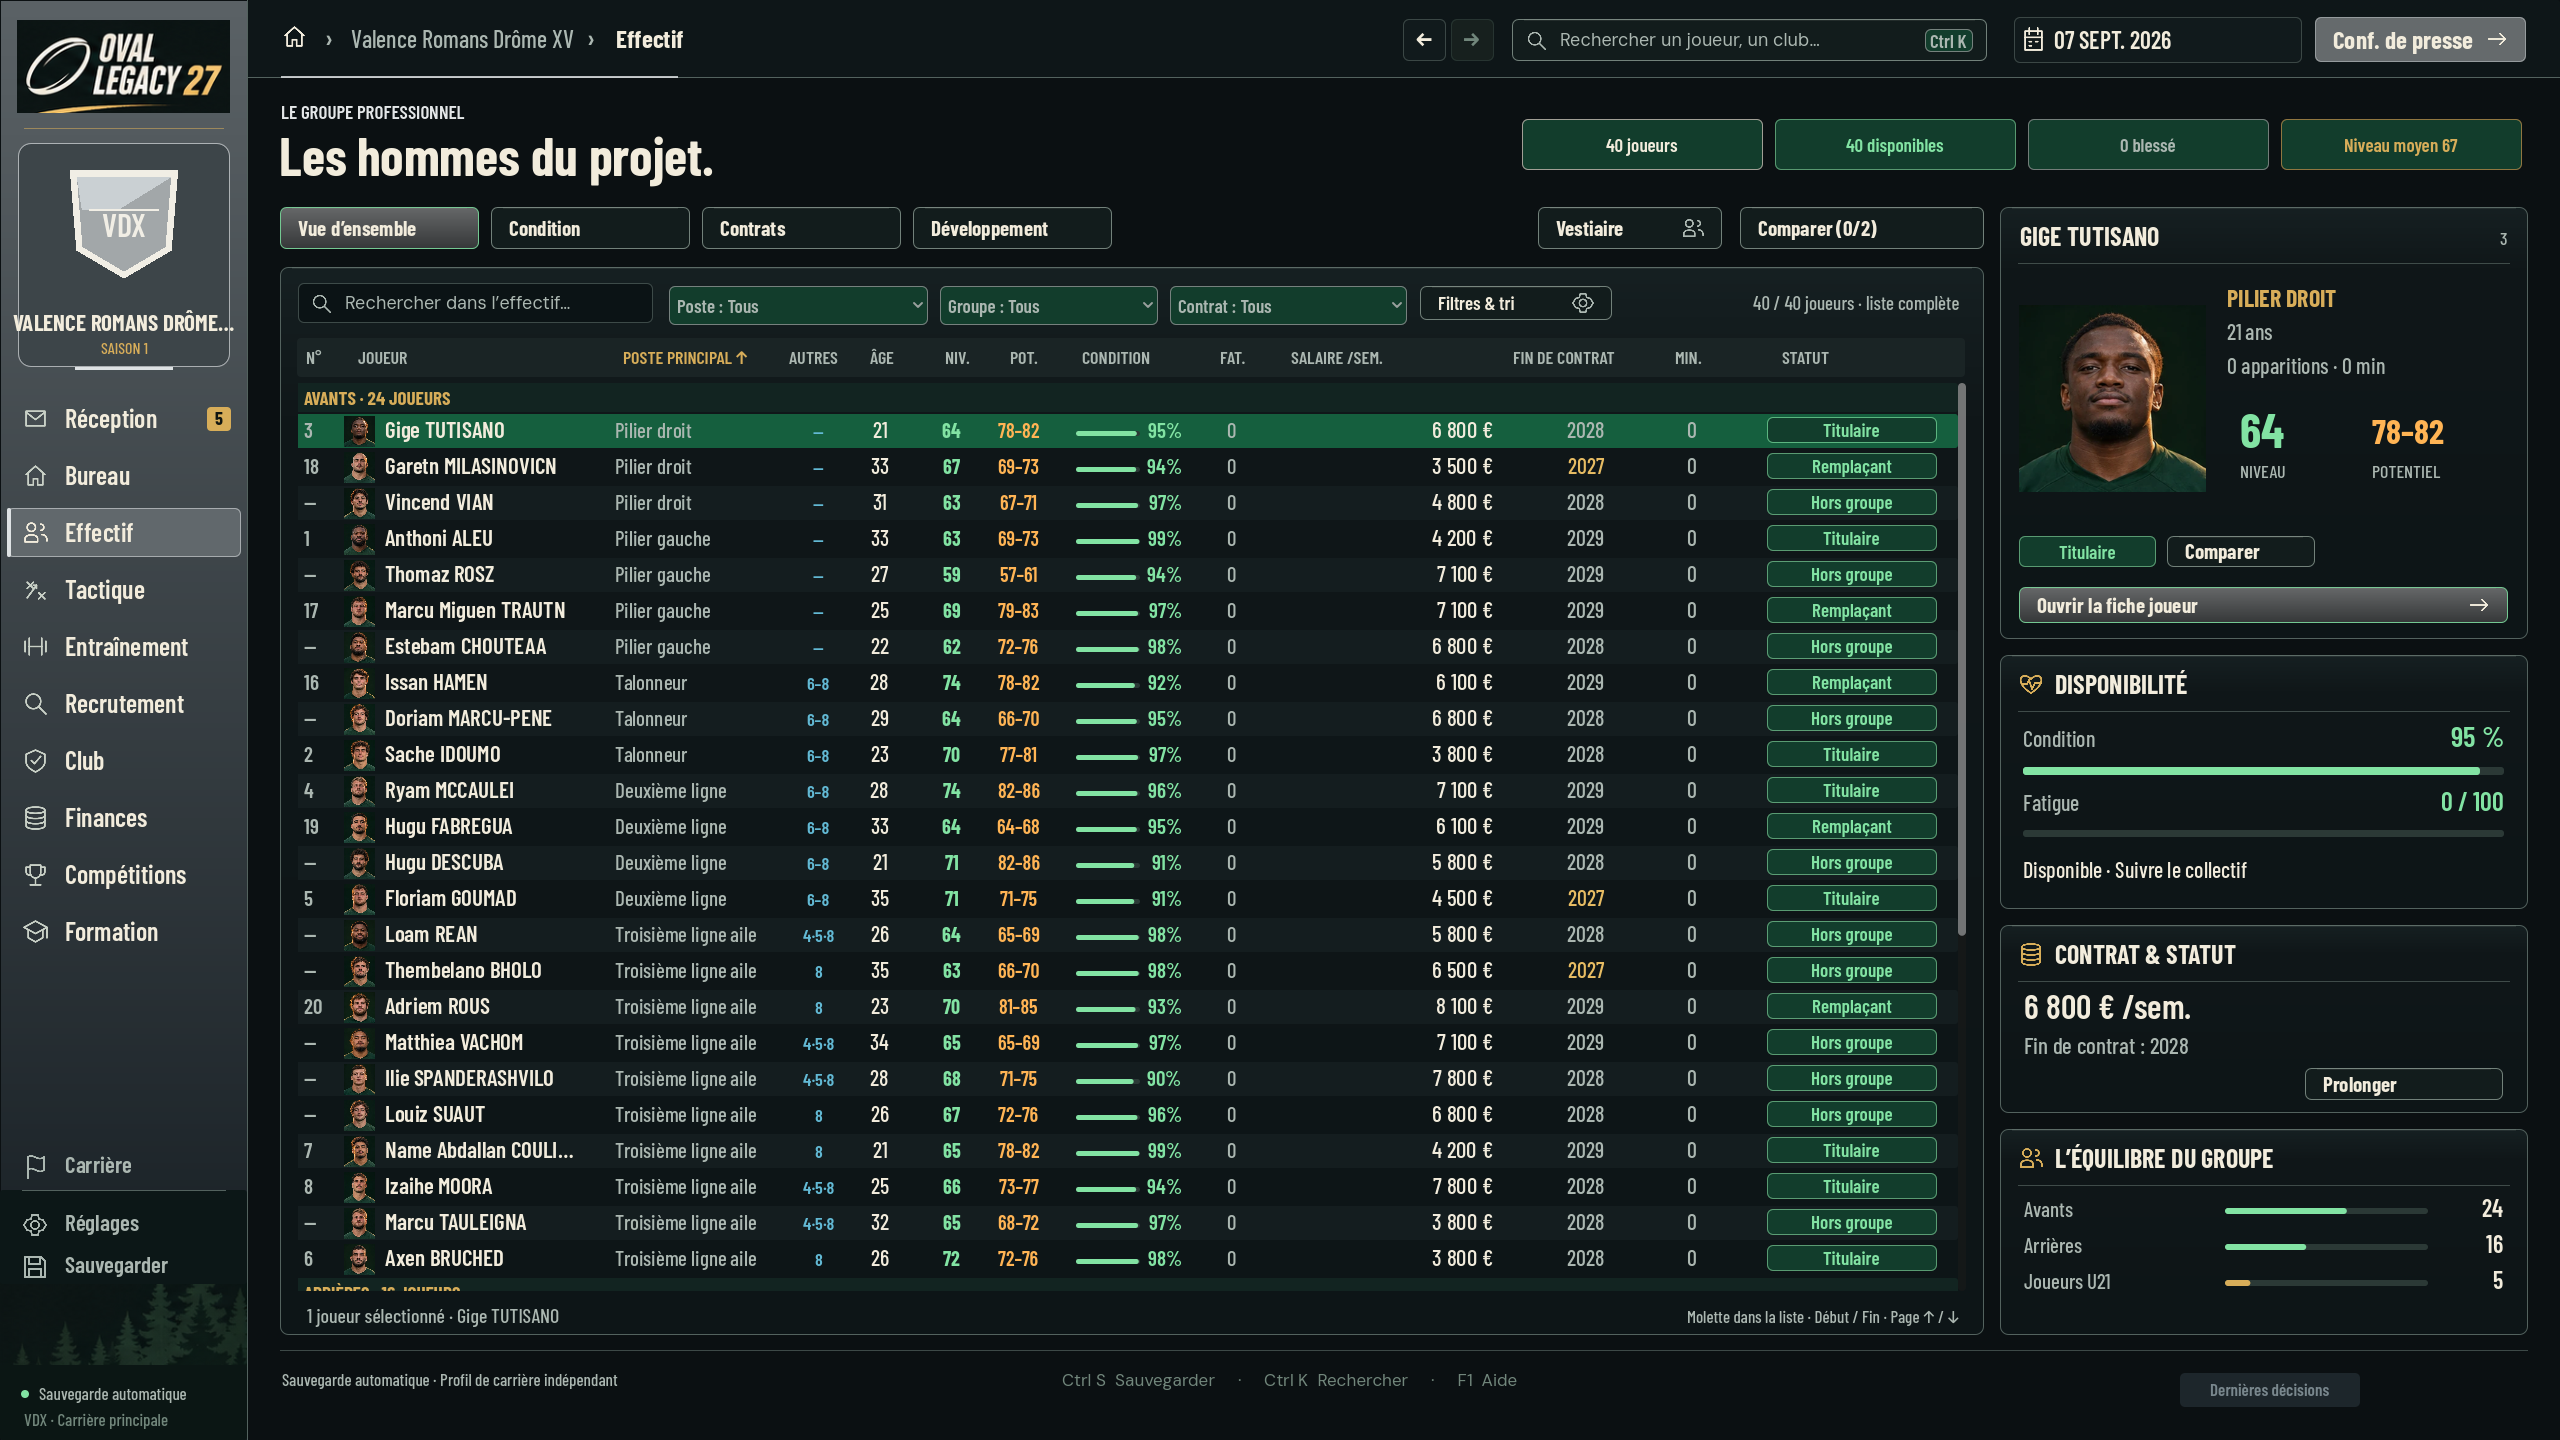
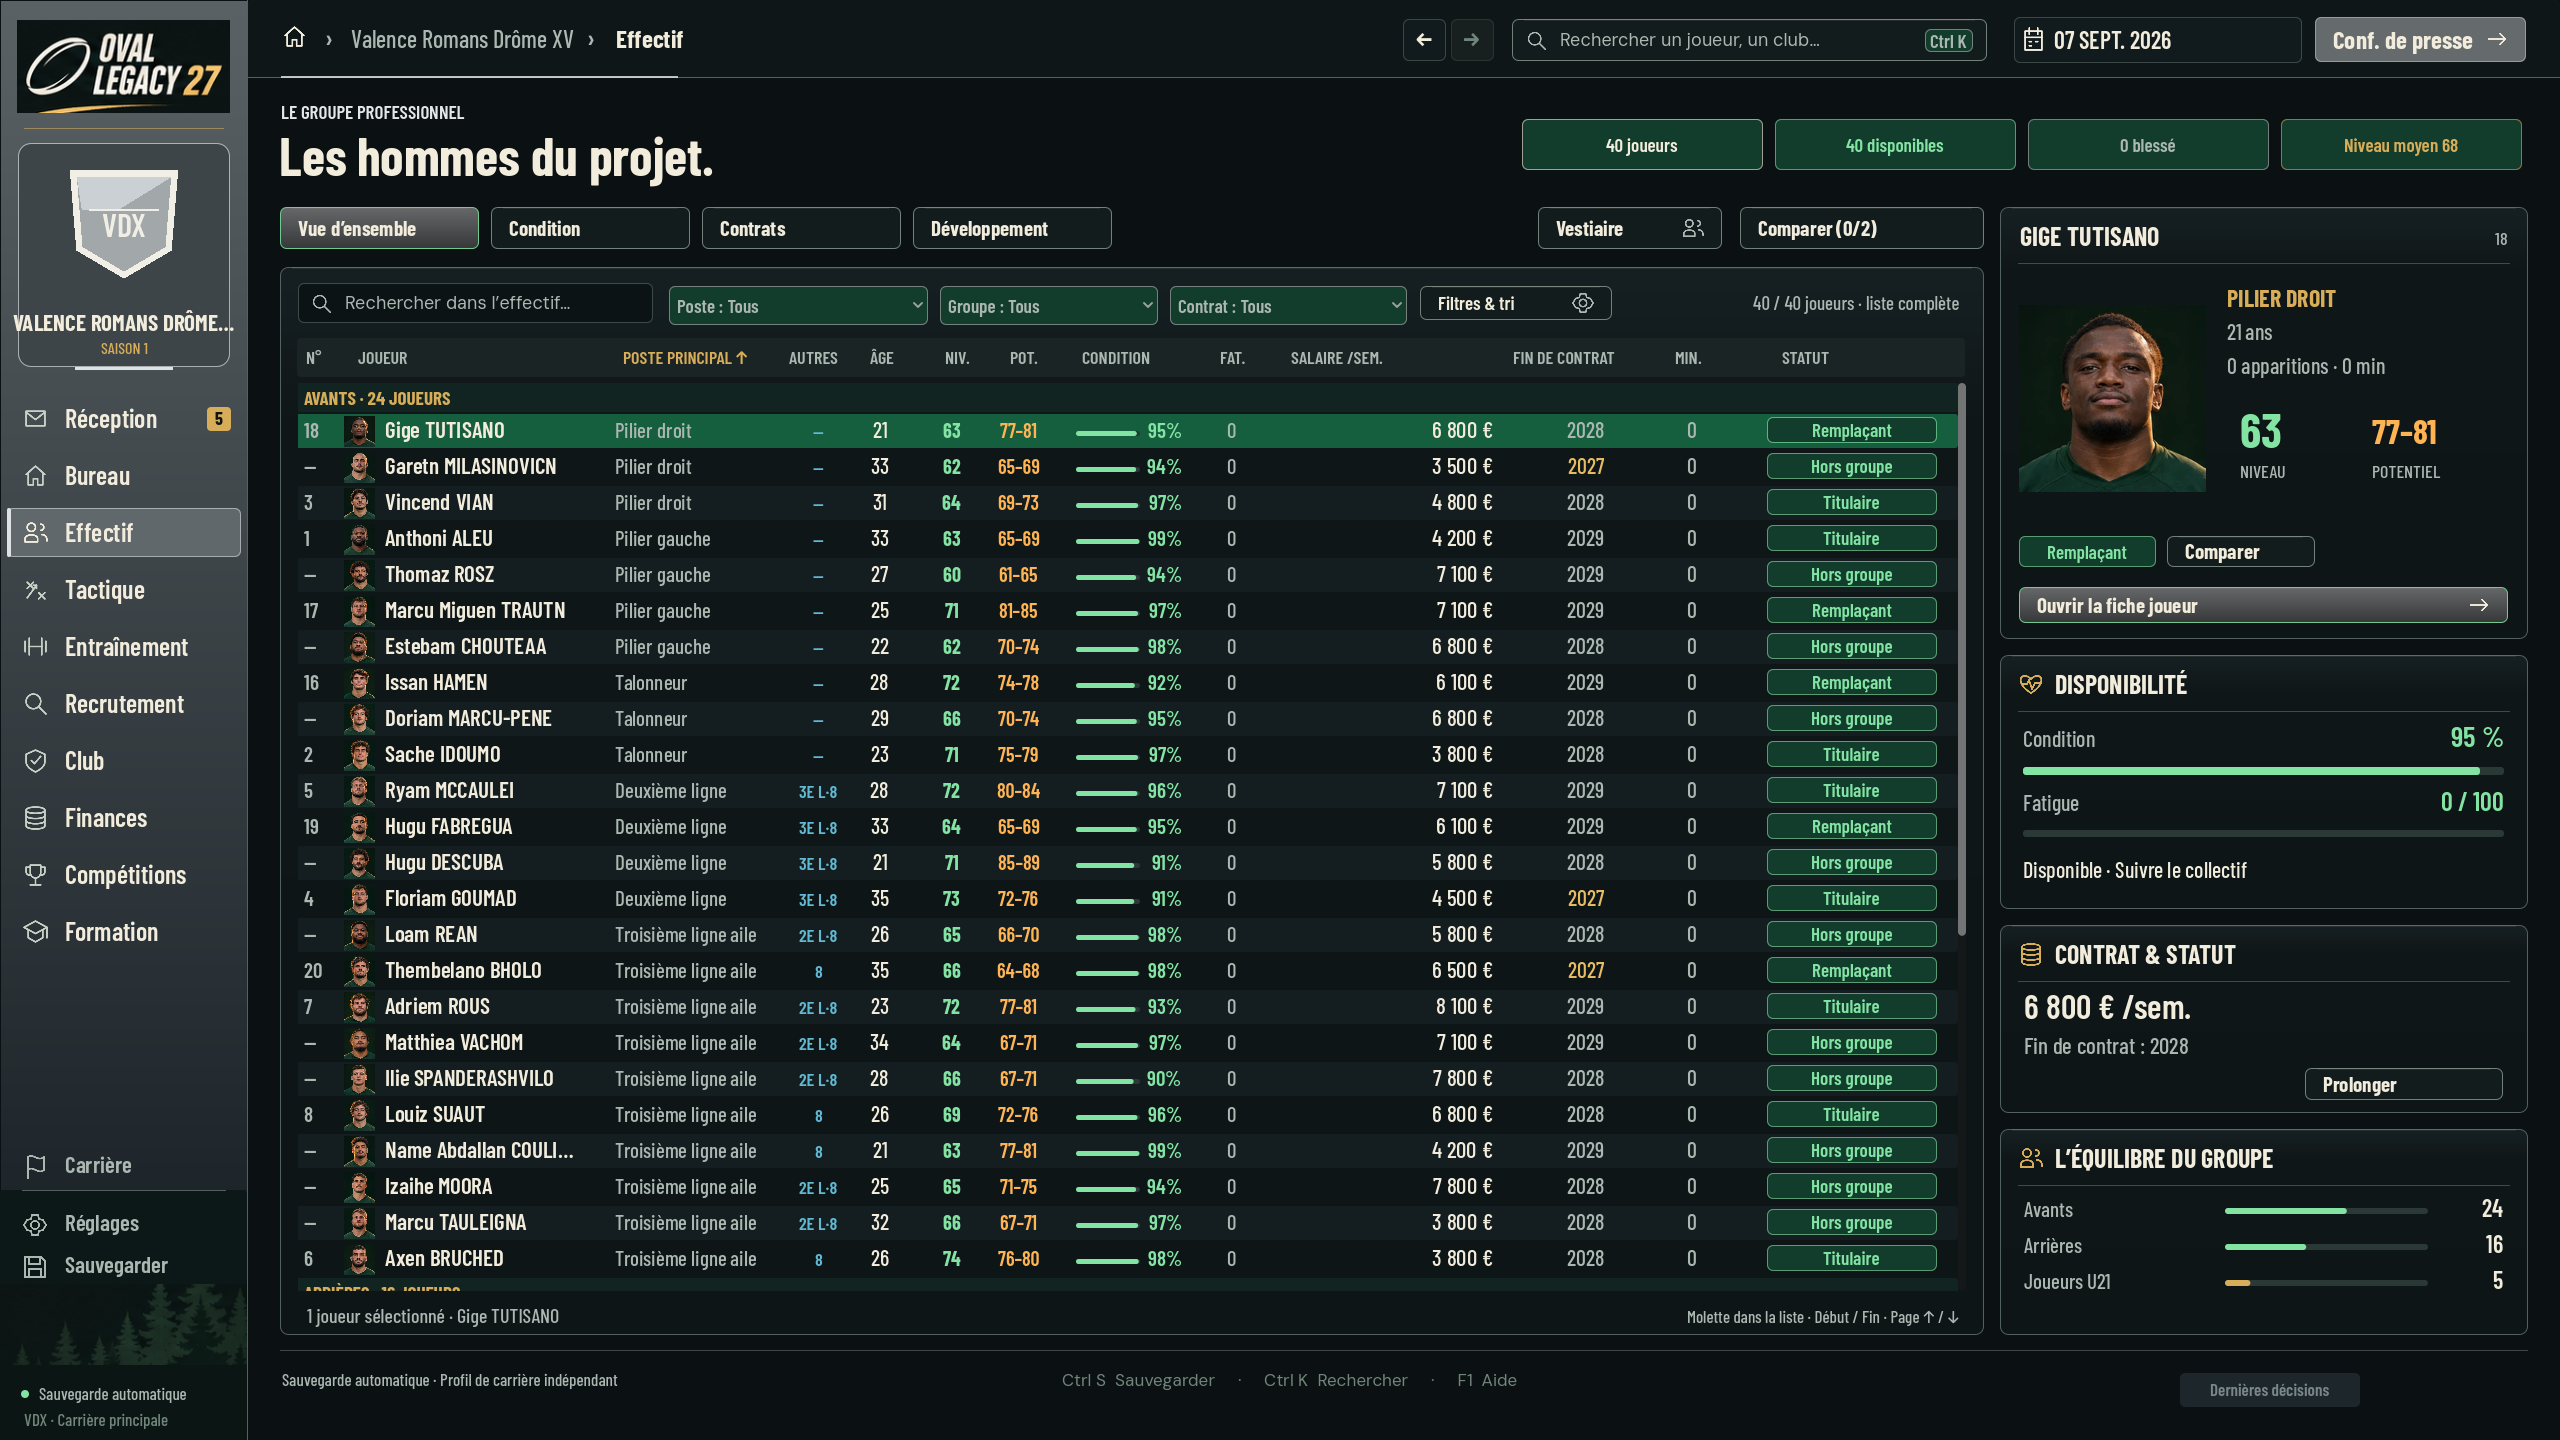
Afficher les rôles abrégés et supprimer la polyvalence automatique des talonneurs

diff --git a/docs/postes-principaux-20261110/README.md b/docs/postes-principaux-20261110/README.md
@@ -9,3 +9,5 @@ Réception : test rouge puis vert sur les cinq groupes ; intégration compositio
 Saison simulée 2026–2027 ; correction de classement des postes de jeu, sans changement des règles d’éligibilité ni des protections de première ligne (référence World Rugby loi3 déjà lue).
 
 Libellés explicites dans les lignes, le tri, les infobulles et la fiche latérale : Troisième ligne aile (6–7), Troisième ligne centre (8). Réception graphique complémentaire : 237 contrôles verts.
+
+Affichage final demandé : PG, PD, T, 2E L, 3E L, 8, DM, DO, C, AL et AR dans Autres, avec infobulles et tri par rôle. Aucun talonneur ne gagne automatiquement la maîtrise des troisième ligne/8 grâce aux seuls attributs. Réception graphique : 237 contrôles verts.
